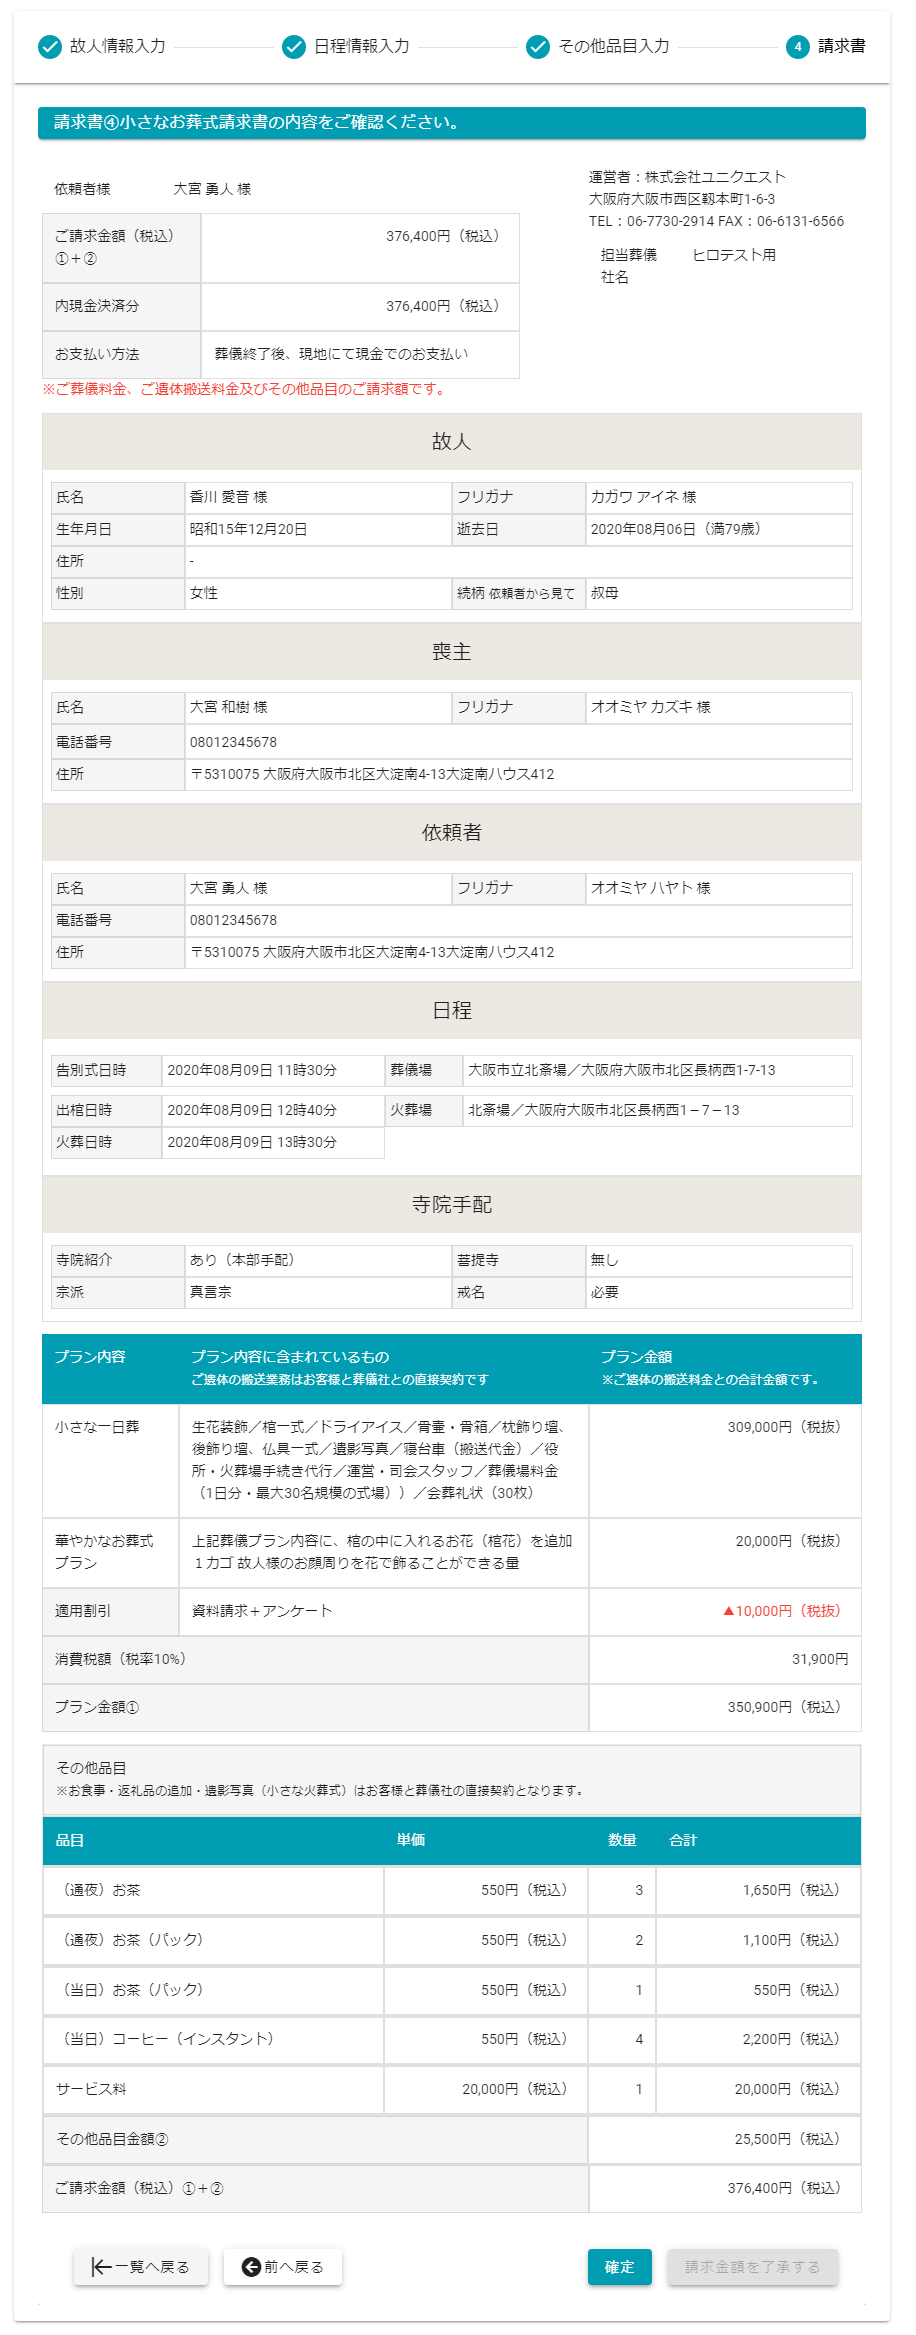
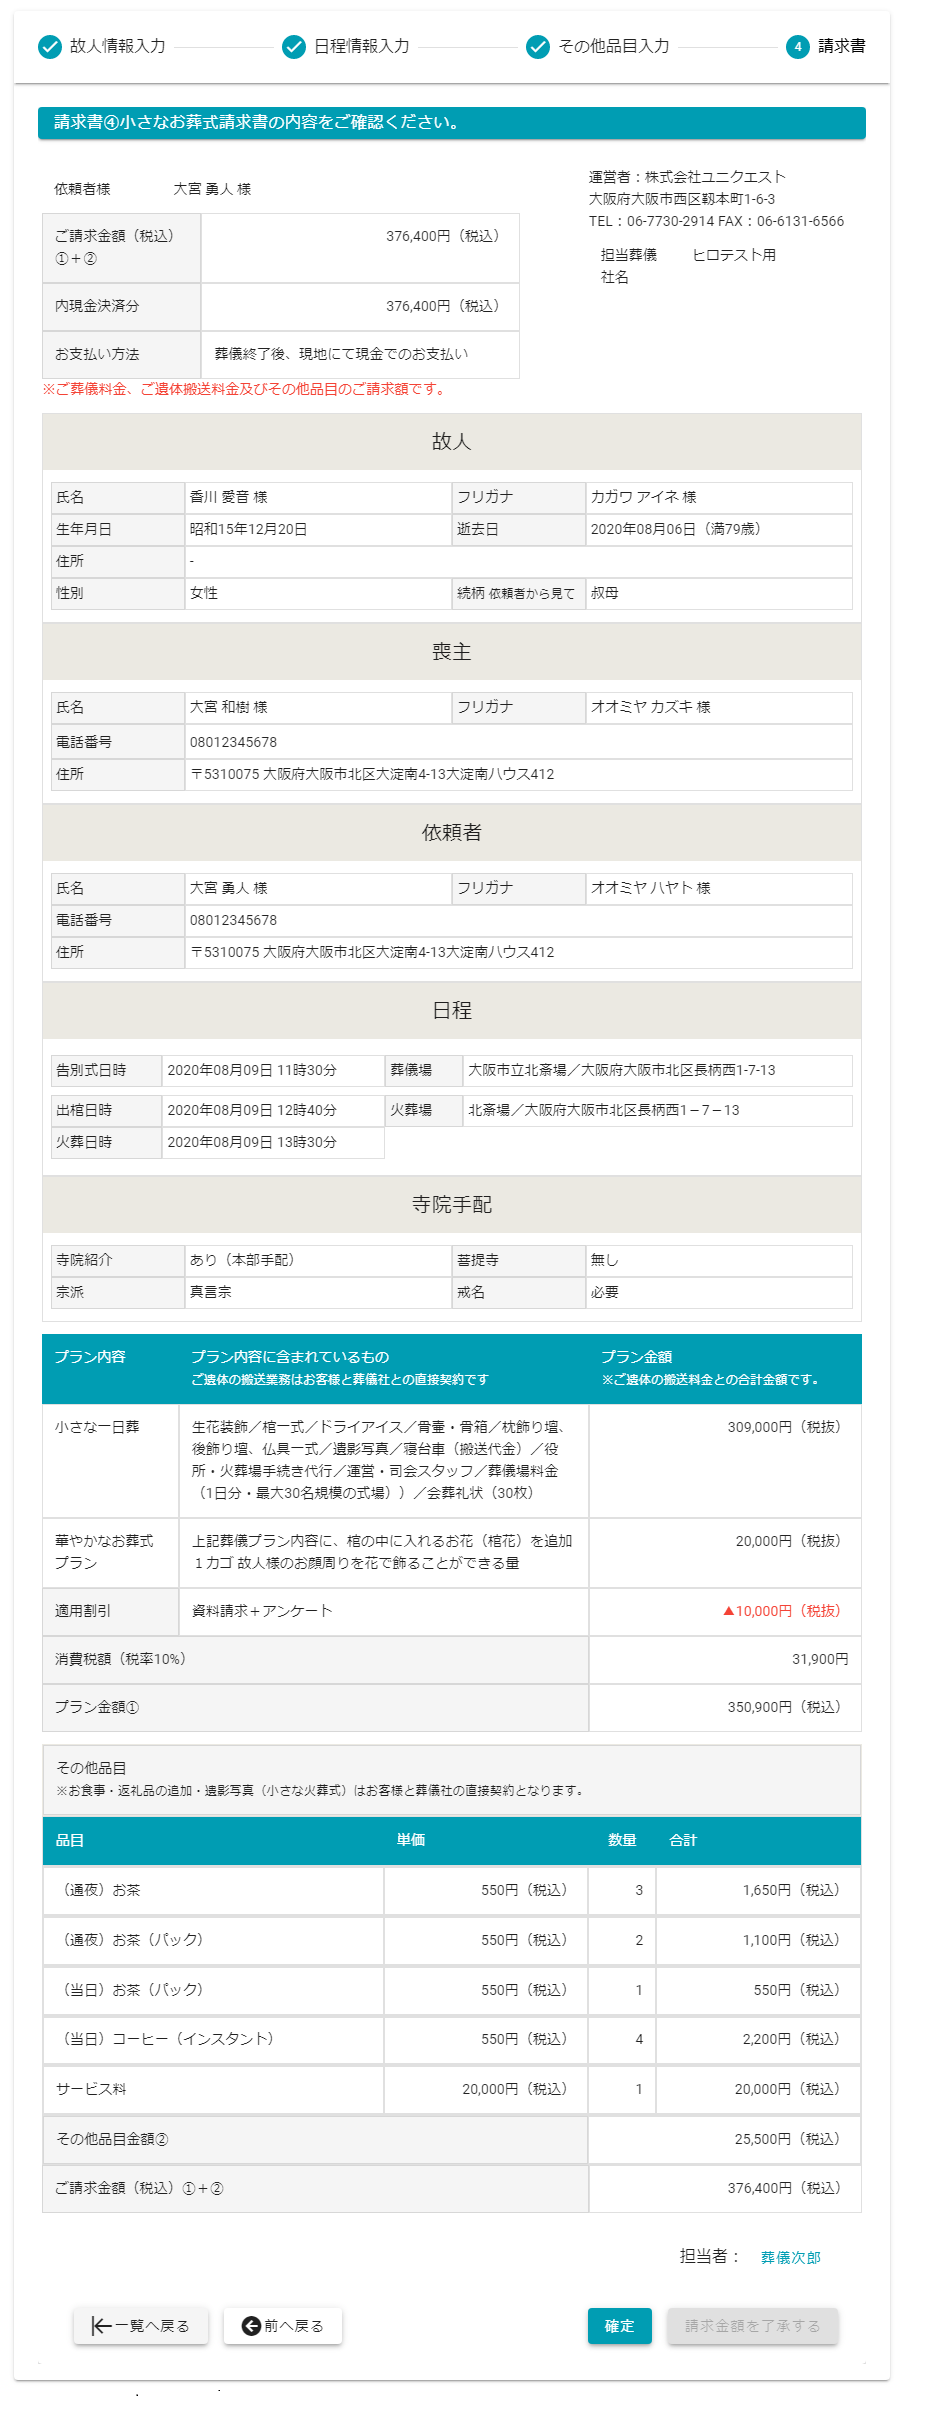
担当者機能について、マニュアル追記とキャプチャ画像updae

Changed region(s): [[0.0306, 0.0, 0.9476, 1.0]]

diff --git a/docs/funeral_list/yet.md b/docs/funeral_list/yet.md
@@ -28,6 +28,7 @@
 |故人名|お亡くなりになった方のお名前（苗字のみ）です.|
 |プラン・宗教者|施行する葬儀のプランと葬儀にて宗教者（お坊さんや神主、聖職者）をお呼びするかどうかです.|
 |火葬日|葬儀の火葬日です.|
+|担当者|葬儀を担当している人の担当者名です.<br/>表示されている担当者名もしくは「未登録」を選択して担当者を設定及び変更ができます.|
 |ステータス|葬儀の進捗状況です.<br>「お迎」をクリックすると設定したお迎え時間が表示されます.|
 |<img src="../../asset/image/funeral_list/icon_edit.png">|ステータスを進めるために葬儀データの確認・編集を行います.|
 |<img src="../../asset/image/funeral_list/icon_refresh.png">|小さなお葬式本部で保持されている葬儀データの最新情報を取得します.|

diff --git a/docs/funeral_list/not_UQ_plan.md b/docs/funeral_list/not_UQ_plan.md
@@ -23,6 +23,7 @@
 |故人名|お亡くなりになった方のお名前（苗字のみ）です.|
 |プラン・宗教者|施行する葬儀のプランと葬儀にて宗教者（お坊さんや神主、聖職者）をお呼びするかどうかです.|
 |火葬日|葬儀の火葬日です.|
+|担当者|葬儀を担当している人の担当者名です.<br/>表示されている担当者名もしくは「未登録」を選択して担当者を設定及び変更ができます.|
 |ステータス|葬儀の進捗状況です.|
 |<img src="../../asset/image/funeral_list/icon_edit.png">|ステータスを進めるために葬儀データの確認・編集を行います.|
 |<img src="../../asset/image/funeral_list/icon_refresh.png">|小さなお葬式本部で保持されている葬儀データの最新情報を取得します.|

diff --git a/docs/funeral_flow/mitsumori.md b/docs/funeral_flow/mitsumori.md
@@ -61,7 +61,8 @@
 ### 8. 見積内容の確認  
 1. お客様に見せるように通知がでますので、**[はい]**を選択し表示された画面をお客様にお見せします.  
  ![通知1](../asset/image/funeral_flow/mitsumori/notice1.png)  
- ![見積書](../asset/image/funeral_flow/mitsumori/mitsumori_step8_1.png)
+ ![見積書](../asset/image/funeral_flow/mitsumori/mitsumori_step8_1.png)  
+※葬儀の担当者を変更する場合は、表示されている担当者名を選択して変更できます.  
 
 2. お客様の確認が取れましたら、**[確定]**を選択します.  
  ![見積書_確定](../asset/image/funeral_flow/mitsumori/mitsumori_step8_2.png)  

diff --git a/docs/funeral_list/complete.md b/docs/funeral_list/complete.md
@@ -23,5 +23,6 @@
 |故人名|お亡くなりになった方のお名前（苗字のみ）です.|
 |プラン・宗教者|施行する葬儀のプランと葬儀にて宗教者（お坊さんや神主、聖職者）をお呼びするかどうかです.|
 |火葬日|葬儀の火葬日です.|
+|担当者|葬儀を担当している人の担当者名です.<br/>表示されている担当者名もしくは「未登録」を選択して担当者を設定及び変更ができます.|
 |ステータス|葬儀の進捗状況です.|
 |<img src="../../asset/image/funeral_list/icon_seikyusho_check.png">|こちらから葬儀の請求書の内容を確認ができます.|

diff --git a/docs/funeral_flow/seikyu.md b/docs/funeral_flow/seikyu.md
@@ -45,7 +45,8 @@
 ### 4. 請求内容の確認  
 1. お客様に見せるように通知がでますので、**[はい]**を選択し表示された画面をお客様にお見せします.  
  ![通知1](../asset/image/funeral_flow/seikyu/notice1.png)  
- ![請求書](../asset/image/funeral_flow/seikyu/seikyu_step4_1.png)
+ ![請求書](../asset/image/funeral_flow/seikyu/seikyu_step4_1.png)  
+※葬儀の担当者を変更する場合は、表示されている担当者名を選択して変更できます.  
 
 2. お客様の確認が取れましたら、**[確定]**を選択します.  
  ![請求書](../asset/image/funeral_flow/seikyu/seikyu_step4_2.png)  

diff --git a/docs/revision_history.md b/docs/revision_history.md
@@ -2,7 +2,7 @@
 
 |日付|内容|
 |:---------|------------------:|
-|2020/10/29|システム更新情報ページにv1.7.0の更新内容を追加<br/>|
+|2020/10/29|担当者機能について、各ページに追記<br/>システム更新情報ページにv1.7.0の更新内容を追加<br/>|
 |2020/10/22|システム更新情報ページにv1.6.1の更新内容を追加<br/>|
 |2020/10/15|システム更新情報ページにv1.6.0の更新内容を追加<br/>担当者の権限表にその他品目メンテナンス画面についてを追加<br/>|
 |2020/10/06|システム更新情報ページにv1.5.1の更新内容を追加|

diff --git a/docs/funeral_flow/omukae.md b/docs/funeral_flow/omukae.md
@@ -36,4 +36,5 @@
 ### 5. 完了  
  ![完了](../asset/image/funeral_flow/omukae/omukae_step5.png)  
  以上で葬儀のお迎えの操作が終わりました.  
- **[一覧へ戻る]**ボタンより施行一覧に戻りますと、ステータスが**見積**に変わっています.
+ **[一覧へ戻る]**ボタンより施行一覧に戻りますと、ステータスが**見積**に変わっています.  
+ また、一覧の担当者欄にご自身の担当者名が設定されています.
